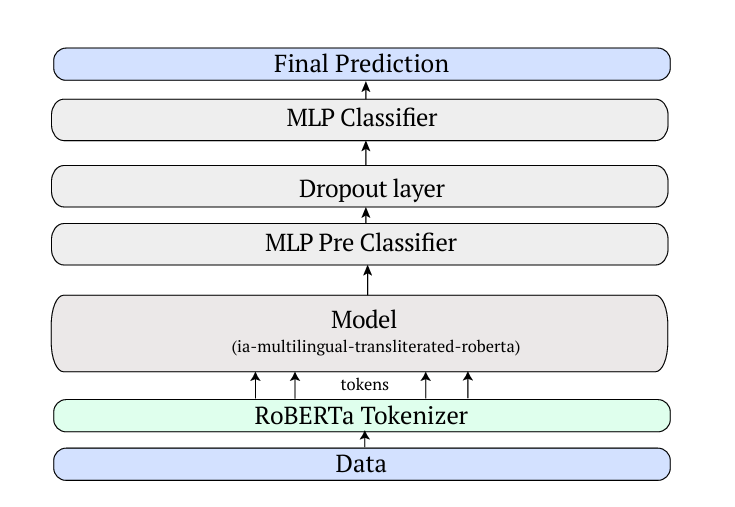
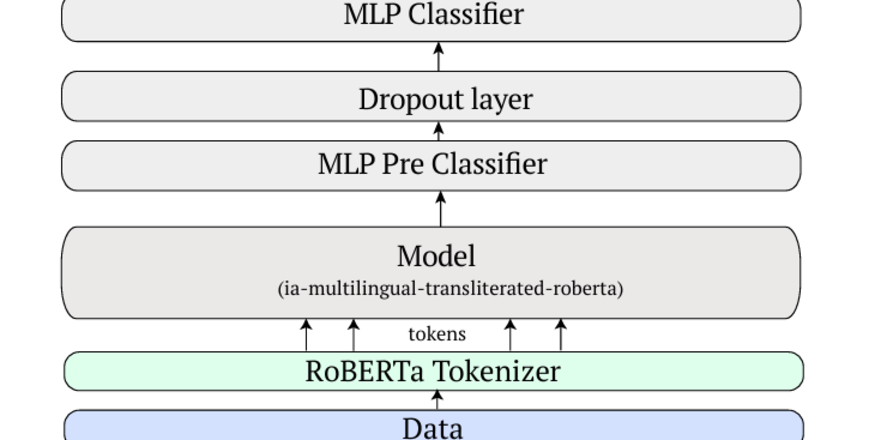
fixed pictures
fixed pictures

diff --git a/public/papers/index.html b/public/papers/index.html
@@ -127,9 +127,9 @@
 
 <article class="post-entry"> 
 <figure class="entry-cover">
-        <img loading="lazy" srcset="https://sidworks01.github.io/papers/paper2/paper2_hu7522697736511192776.png 360w ,https://sidworks01.github.io/papers/paper2/paper2_hu12771928017084689866.png 480w " 
+        <img loading="lazy" srcset="https://sidworks01.github.io/papers/paper2/paper2_hu15640079223351312884.png 360w ,https://sidworks01.github.io/papers/paper2/paper2_hu14879674527636699768.png 480w ,https://sidworks01.github.io/papers/paper2/paper2_hu10559905730609576515.png 720w ,https://sidworks01.github.io/papers/paper2/paper2.png 880w" 
             sizes="(min-width: 768px) 720px, 100vw" src="https://sidworks01.github.io/papers/paper2/paper2.png" alt="Lexical Reranking of Semantic Retrieval (LeSeR) for Regulatory Question Answering" 
-            width="624" height="349">
+            width="880" height="440">
         
 </figure>
   <header class="entry-header">
@@ -145,9 +145,9 @@
 
 <article class="post-entry"> 
 <figure class="entry-cover">
-        <img loading="lazy" srcset="https://sidworks01.github.io/papers/paper1/paper1_hu4894073572124671224.png 360w ,https://sidworks01.github.io/papers/paper1/paper1_hu6636149804068126162.png 480w ,https://sidworks01.github.io/papers/paper1/paper1_hu10222084627039368540.png 720w " 
+        <img loading="lazy" srcset="https://sidworks01.github.io/papers/paper1/paper1_hu10767782107140078428.png 360w ,https://sidworks01.github.io/papers/paper1/paper1_hu6671698019624905921.png 480w ,https://sidworks01.github.io/papers/paper1/paper1_hu17146521027249259050.png 720w ,https://sidworks01.github.io/papers/paper1/paper1.png 881w" 
             sizes="(min-width: 768px) 720px, 100vw" src="https://sidworks01.github.io/papers/paper1/paper1.png" alt="Multilingual Hate Speech Detection and Target Identification in Devanagari-Scripted Languages" 
-            width="735" height="507">
+            width="881" height="440">
         
 </figure>
   <header class="entry-header">
@@ -163,9 +163,9 @@
 
 <article class="post-entry"> 
 <figure class="entry-cover">
-        <img loading="lazy" srcset="https://sidworks01.github.io/papers/paper3/paper3_hu6159472271276108284.png 360w ,https://sidworks01.github.io/papers/paper3/paper3_hu18395386701546581001.png 480w " 
+        <img loading="lazy" srcset="https://sidworks01.github.io/papers/paper3/paper3_hu10420297116310489805.png 360w ,https://sidworks01.github.io/papers/paper3/paper3_hu544912553811591159.png 480w ,https://sidworks01.github.io/papers/paper3/paper3_hu3970448855904298195.png 720w ,https://sidworks01.github.io/papers/paper3/paper3.png 880w" 
             sizes="(min-width: 768px) 720px, 100vw" src="https://sidworks01.github.io/papers/paper3/paper3.png" alt="Sequential Learning for Claim Verification and Explanation Generation in Financial Domains" 
-            width="496" height="488">
+            width="880" height="440">
         
 </figure>
   <header class="entry-header">

diff --git a/public/tags/llms/index.html b/public/tags/llms/index.html
@@ -113,9 +113,9 @@
 
 <article class="post-entry tag-entry"> 
 <figure class="entry-cover">
-        <img loading="lazy" srcset="https://sidworks01.github.io/papers/paper1/paper1_hu4894073572124671224.png 360w ,https://sidworks01.github.io/papers/paper1/paper1_hu6636149804068126162.png 480w ,https://sidworks01.github.io/papers/paper1/paper1_hu10222084627039368540.png 720w ,https://sidworks01.github.io/papers/paper1/paper1.png 735w" 
+        <img loading="lazy" srcset="https://sidworks01.github.io/papers/paper1/paper1_hu10767782107140078428.png 360w ,https://sidworks01.github.io/papers/paper1/paper1_hu6671698019624905921.png 480w ,https://sidworks01.github.io/papers/paper1/paper1_hu17146521027249259050.png 720w ,https://sidworks01.github.io/papers/paper1/paper1.png 881w" 
             sizes="(min-width: 768px) 720px, 100vw" src="https://sidworks01.github.io/papers/paper1/paper1.png" alt="Multilingual Hate Speech Detection and Target Identification in Devanagari-Scripted Languages" 
-            width="735" height="507">
+            width="881" height="440">
         
 </figure>
   <header class="entry-header">
@@ -131,9 +131,9 @@
 
 <article class="post-entry tag-entry"> 
 <figure class="entry-cover">
-        <img loading="lazy" srcset="https://sidworks01.github.io/papers/paper3/paper3_hu6159472271276108284.png 360w ,https://sidworks01.github.io/papers/paper3/paper3_hu18395386701546581001.png 480w ,https://sidworks01.github.io/papers/paper3/paper3.png 496w" 
+        <img loading="lazy" srcset="https://sidworks01.github.io/papers/paper3/paper3_hu10420297116310489805.png 360w ,https://sidworks01.github.io/papers/paper3/paper3_hu544912553811591159.png 480w ,https://sidworks01.github.io/papers/paper3/paper3_hu3970448855904298195.png 720w ,https://sidworks01.github.io/papers/paper3/paper3.png 880w" 
             sizes="(min-width: 768px) 720px, 100vw" src="https://sidworks01.github.io/papers/paper3/paper3.png" alt="Sequential Learning for Claim Verification and Explanation Generation in Financial Domains" 
-            width="496" height="488">
+            width="880" height="440">
         
 </figure>
   <header class="entry-header">

diff --git a/public/tags/gemma-2/index.html b/public/tags/gemma-2/index.html
@@ -113,9 +113,9 @@
 
 <article class="post-entry tag-entry"> 
 <figure class="entry-cover">
-        <img loading="lazy" srcset="https://sidworks01.github.io/papers/paper2/paper2_hu7522697736511192776.png 360w ,https://sidworks01.github.io/papers/paper2/paper2_hu12771928017084689866.png 480w ,https://sidworks01.github.io/papers/paper2/paper2.png 624w" 
+        <img loading="lazy" srcset="https://sidworks01.github.io/papers/paper2/paper2_hu15640079223351312884.png 360w ,https://sidworks01.github.io/papers/paper2/paper2_hu14879674527636699768.png 480w ,https://sidworks01.github.io/papers/paper2/paper2_hu10559905730609576515.png 720w ,https://sidworks01.github.io/papers/paper2/paper2.png 880w" 
             sizes="(min-width: 768px) 720px, 100vw" src="https://sidworks01.github.io/papers/paper2/paper2.png" alt="Lexical Reranking of Semantic Retrieval (LeSeR) for Regulatory Question Answering" 
-            width="624" height="349">
+            width="880" height="440">
         
 </figure>
   <header class="entry-header">
@@ -131,9 +131,9 @@
 
 <article class="post-entry tag-entry"> 
 <figure class="entry-cover">
-        <img loading="lazy" srcset="https://sidworks01.github.io/papers/paper3/paper3_hu6159472271276108284.png 360w ,https://sidworks01.github.io/papers/paper3/paper3_hu18395386701546581001.png 480w ,https://sidworks01.github.io/papers/paper3/paper3.png 496w" 
+        <img loading="lazy" srcset="https://sidworks01.github.io/papers/paper3/paper3_hu10420297116310489805.png 360w ,https://sidworks01.github.io/papers/paper3/paper3_hu544912553811591159.png 480w ,https://sidworks01.github.io/papers/paper3/paper3_hu3970448855904298195.png 720w ,https://sidworks01.github.io/papers/paper3/paper3.png 880w" 
             sizes="(min-width: 768px) 720px, 100vw" src="https://sidworks01.github.io/papers/paper3/paper3.png" alt="Sequential Learning for Claim Verification and Explanation Generation in Financial Domains" 
-            width="496" height="488">
+            width="880" height="440">
         
 </figure>
   <header class="entry-header">

diff --git a/public/tags/mistral/index.html b/public/tags/mistral/index.html
@@ -113,9 +113,9 @@
 
 <article class="post-entry tag-entry"> 
 <figure class="entry-cover">
-        <img loading="lazy" srcset="https://sidworks01.github.io/papers/paper2/paper2_hu7522697736511192776.png 360w ,https://sidworks01.github.io/papers/paper2/paper2_hu12771928017084689866.png 480w ,https://sidworks01.github.io/papers/paper2/paper2.png 624w" 
+        <img loading="lazy" srcset="https://sidworks01.github.io/papers/paper2/paper2_hu15640079223351312884.png 360w ,https://sidworks01.github.io/papers/paper2/paper2_hu14879674527636699768.png 480w ,https://sidworks01.github.io/papers/paper2/paper2_hu10559905730609576515.png 720w ,https://sidworks01.github.io/papers/paper2/paper2.png 880w" 
             sizes="(min-width: 768px) 720px, 100vw" src="https://sidworks01.github.io/papers/paper2/paper2.png" alt="Lexical Reranking of Semantic Retrieval (LeSeR) for Regulatory Question Answering" 
-            width="624" height="349">
+            width="880" height="440">
         
 </figure>
   <header class="entry-header">
@@ -131,9 +131,9 @@
 
 <article class="post-entry tag-entry"> 
 <figure class="entry-cover">
-        <img loading="lazy" srcset="https://sidworks01.github.io/papers/paper3/paper3_hu6159472271276108284.png 360w ,https://sidworks01.github.io/papers/paper3/paper3_hu18395386701546581001.png 480w ,https://sidworks01.github.io/papers/paper3/paper3.png 496w" 
+        <img loading="lazy" srcset="https://sidworks01.github.io/papers/paper3/paper3_hu10420297116310489805.png 360w ,https://sidworks01.github.io/papers/paper3/paper3_hu544912553811591159.png 480w ,https://sidworks01.github.io/papers/paper3/paper3_hu3970448855904298195.png 720w ,https://sidworks01.github.io/papers/paper3/paper3.png 880w" 
             sizes="(min-width: 768px) 720px, 100vw" src="https://sidworks01.github.io/papers/paper3/paper3.png" alt="Sequential Learning for Claim Verification and Explanation Generation in Financial Domains" 
-            width="496" height="488">
+            width="880" height="440">
         
 </figure>
   <header class="entry-header">

diff --git a/public/tags/multilingual/index.html b/public/tags/multilingual/index.html
@@ -113,9 +113,9 @@
 
 <article class="post-entry tag-entry"> 
 <figure class="entry-cover">
-        <img loading="lazy" srcset="https://sidworks01.github.io/papers/paper1/paper1_hu4894073572124671224.png 360w ,https://sidworks01.github.io/papers/paper1/paper1_hu6636149804068126162.png 480w ,https://sidworks01.github.io/papers/paper1/paper1_hu10222084627039368540.png 720w ,https://sidworks01.github.io/papers/paper1/paper1.png 735w" 
+        <img loading="lazy" srcset="https://sidworks01.github.io/papers/paper1/paper1_hu10767782107140078428.png 360w ,https://sidworks01.github.io/papers/paper1/paper1_hu6671698019624905921.png 480w ,https://sidworks01.github.io/papers/paper1/paper1_hu17146521027249259050.png 720w ,https://sidworks01.github.io/papers/paper1/paper1.png 881w" 
             sizes="(min-width: 768px) 720px, 100vw" src="https://sidworks01.github.io/papers/paper1/paper1.png" alt="Multilingual Hate Speech Detection and Target Identification in Devanagari-Scripted Languages" 
-            width="735" height="507">
+            width="881" height="440">
         
 </figure>
   <header class="entry-header">

diff --git a/public/tags/lora/index.html b/public/tags/lora/index.html
@@ -113,9 +113,9 @@
 
 <article class="post-entry tag-entry"> 
 <figure class="entry-cover">
-        <img loading="lazy" srcset="https://sidworks01.github.io/papers/paper3/paper3_hu6159472271276108284.png 360w ,https://sidworks01.github.io/papers/paper3/paper3_hu18395386701546581001.png 480w ,https://sidworks01.github.io/papers/paper3/paper3.png 496w" 
+        <img loading="lazy" srcset="https://sidworks01.github.io/papers/paper3/paper3_hu10420297116310489805.png 360w ,https://sidworks01.github.io/papers/paper3/paper3_hu544912553811591159.png 480w ,https://sidworks01.github.io/papers/paper3/paper3_hu3970448855904298195.png 720w ,https://sidworks01.github.io/papers/paper3/paper3.png 880w" 
             sizes="(min-width: 768px) 720px, 100vw" src="https://sidworks01.github.io/papers/paper3/paper3.png" alt="Sequential Learning for Claim Verification and Explanation Generation in Financial Domains" 
-            width="496" height="488">
+            width="880" height="440">
         
 </figure>
   <header class="entry-header">

diff --git a/public/tags/qwen/index.html b/public/tags/qwen/index.html
@@ -113,9 +113,9 @@
 
 <article class="post-entry tag-entry"> 
 <figure class="entry-cover">
-        <img loading="lazy" srcset="https://sidworks01.github.io/papers/paper3/paper3_hu6159472271276108284.png 360w ,https://sidworks01.github.io/papers/paper3/paper3_hu18395386701546581001.png 480w ,https://sidworks01.github.io/papers/paper3/paper3.png 496w" 
+        <img loading="lazy" srcset="https://sidworks01.github.io/papers/paper3/paper3_hu10420297116310489805.png 360w ,https://sidworks01.github.io/papers/paper3/paper3_hu544912553811591159.png 480w ,https://sidworks01.github.io/papers/paper3/paper3_hu3970448855904298195.png 720w ,https://sidworks01.github.io/papers/paper3/paper3.png 880w" 
             sizes="(min-width: 768px) 720px, 100vw" src="https://sidworks01.github.io/papers/paper3/paper3.png" alt="Sequential Learning for Claim Verification and Explanation Generation in Financial Domains" 
-            width="496" height="488">
+            width="880" height="440">
         
 </figure>
   <header class="entry-header">

diff --git a/public/tags/bm25/index.html b/public/tags/bm25/index.html
@@ -113,9 +113,9 @@
 
 <article class="post-entry tag-entry"> 
 <figure class="entry-cover">
-        <img loading="lazy" srcset="https://sidworks01.github.io/papers/paper2/paper2_hu7522697736511192776.png 360w ,https://sidworks01.github.io/papers/paper2/paper2_hu12771928017084689866.png 480w ,https://sidworks01.github.io/papers/paper2/paper2.png 624w" 
+        <img loading="lazy" srcset="https://sidworks01.github.io/papers/paper2/paper2_hu15640079223351312884.png 360w ,https://sidworks01.github.io/papers/paper2/paper2_hu14879674527636699768.png 480w ,https://sidworks01.github.io/papers/paper2/paper2_hu10559905730609576515.png 720w ,https://sidworks01.github.io/papers/paper2/paper2.png 880w" 
             sizes="(min-width: 768px) 720px, 100vw" src="https://sidworks01.github.io/papers/paper2/paper2.png" alt="Lexical Reranking of Semantic Retrieval (LeSeR) for Regulatory Question Answering" 
-            width="624" height="349">
+            width="880" height="440">
         
 </figure>
   <header class="entry-header">

diff --git a/public/tags/nemo/index.html b/public/tags/nemo/index.html
@@ -113,9 +113,9 @@
 
 <article class="post-entry tag-entry"> 
 <figure class="entry-cover">
-        <img loading="lazy" srcset="https://sidworks01.github.io/papers/paper2/paper2_hu7522697736511192776.png 360w ,https://sidworks01.github.io/papers/paper2/paper2_hu12771928017084689866.png 480w ,https://sidworks01.github.io/papers/paper2/paper2.png 624w" 
+        <img loading="lazy" srcset="https://sidworks01.github.io/papers/paper2/paper2_hu15640079223351312884.png 360w ,https://sidworks01.github.io/papers/paper2/paper2_hu14879674527636699768.png 480w ,https://sidworks01.github.io/papers/paper2/paper2_hu10559905730609576515.png 720w ,https://sidworks01.github.io/papers/paper2/paper2.png 880w" 
             sizes="(min-width: 768px) 720px, 100vw" src="https://sidworks01.github.io/papers/paper2/paper2.png" alt="Lexical Reranking of Semantic Retrieval (LeSeR) for Regulatory Question Answering" 
-            width="624" height="349">
+            width="880" height="440">
         
 </figure>
   <header class="entry-header">

diff --git a/public/tags/qwen2.5/index.html b/public/tags/qwen2.5/index.html
@@ -113,9 +113,9 @@
 
 <article class="post-entry tag-entry"> 
 <figure class="entry-cover">
-        <img loading="lazy" srcset="https://sidworks01.github.io/papers/paper2/paper2_hu7522697736511192776.png 360w ,https://sidworks01.github.io/papers/paper2/paper2_hu12771928017084689866.png 480w ,https://sidworks01.github.io/papers/paper2/paper2.png 624w" 
+        <img loading="lazy" srcset="https://sidworks01.github.io/papers/paper2/paper2_hu15640079223351312884.png 360w ,https://sidworks01.github.io/papers/paper2/paper2_hu14879674527636699768.png 480w ,https://sidworks01.github.io/papers/paper2/paper2_hu10559905730609576515.png 720w ,https://sidworks01.github.io/papers/paper2/paper2.png 880w" 
             sizes="(min-width: 768px) 720px, 100vw" src="https://sidworks01.github.io/papers/paper2/paper2.png" alt="Lexical Reranking of Semantic Retrieval (LeSeR) for Regulatory Question Answering" 
-            width="624" height="349">
+            width="880" height="440">
         
 </figure>
   <header class="entry-header">

diff --git a/public/tags/rag/index.html b/public/tags/rag/index.html
@@ -113,9 +113,9 @@
 
 <article class="post-entry tag-entry"> 
 <figure class="entry-cover">
-        <img loading="lazy" srcset="https://sidworks01.github.io/papers/paper2/paper2_hu7522697736511192776.png 360w ,https://sidworks01.github.io/papers/paper2/paper2_hu12771928017084689866.png 480w ,https://sidworks01.github.io/papers/paper2/paper2.png 624w" 
+        <img loading="lazy" srcset="https://sidworks01.github.io/papers/paper2/paper2_hu15640079223351312884.png 360w ,https://sidworks01.github.io/papers/paper2/paper2_hu14879674527636699768.png 480w ,https://sidworks01.github.io/papers/paper2/paper2_hu10559905730609576515.png 720w ,https://sidworks01.github.io/papers/paper2/paper2.png 880w" 
             sizes="(min-width: 768px) 720px, 100vw" src="https://sidworks01.github.io/papers/paper2/paper2.png" alt="Lexical Reranking of Semantic Retrieval (LeSeR) for Regulatory Question Answering" 
-            width="624" height="349">
+            width="880" height="440">
         
 </figure>
   <header class="entry-header">
